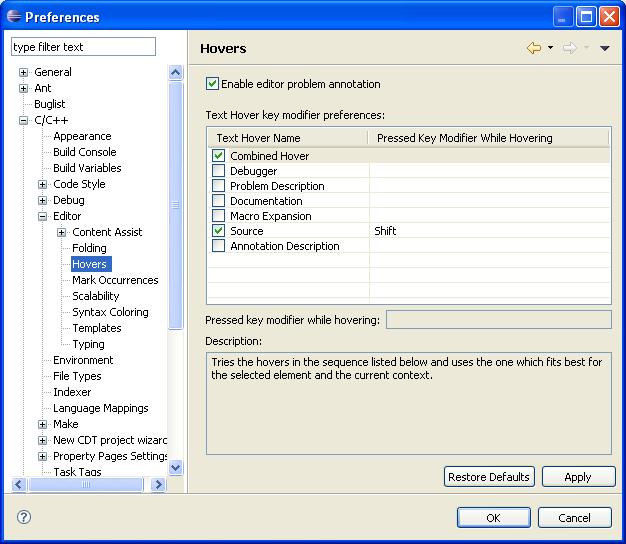
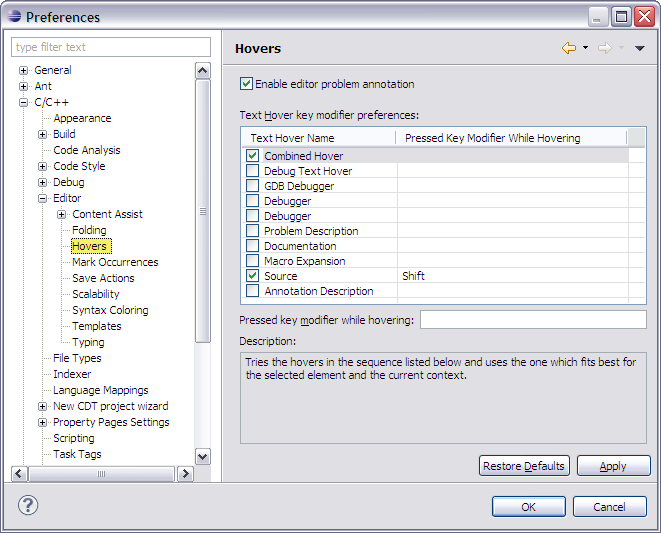
Revised Editor pref panels including: Folding, Hovers, Mark Occurrences, Save Actions, Scalability, Syntax Coloring, Templates, and Typing

diff --git a/doc/org.eclipse.cdt.doc.user/reference/cdt_u_c_editor_mark_occurrences.htm b/doc/org.eclipse.cdt.doc.user/reference/cdt_u_c_editor_mark_occurrences.htm
@@ -3,37 +3,46 @@
 <head>
 <meta name="copyright" content="Copyright (c) IBM Corporation and others 2000, 2008. This page is made available under license. For full details see the LEGAL in the documentation book that contains this page.">
 <meta http-equiv="Content-Type" content="text/html; charset=iso-8859-1">
-<title>Mark Occurrences</title>
+<title>Mark Occurrences preferences</title>
 <link rel="stylesheet" href="../book.css" charset="ISO-8859-1" type="text/css">
 <script language="JavaScript" src="PLUGINS_ROOT/org.eclipse.help/livehelp.js" type="text/javascript"> </script>
 </head>
+
 <body>
-<h1>Mark Occurrences</h1>
-<p>Indicate your preferences for the Mark Occurrences settings on the <a class="command-link" href='javascript:executeCommand("org.eclipse.ui.window.preferences(preferencePageId=org.eclipse.cdt.ui.preferences.MarkOccurrencesPreferencePage)")'> <img src="PLUGINS_ROOT/org.eclipse.help/command_link.png" alt="Opens the Mark Occurrences preference page"> <strong>C/C++ &gt; Editor &gt; Mark Occurrences</strong></a> preference page.</p>
-<table border="1" cellspacing="0" cellpadding="5">
+<h1>Mark Occurrences preferences</h1>
+<p>Use the <img src="../images/command_link.png" border="0" alt="" /> <a class="command-link" href='javascript:executeCommand("org.eclipse.ui.window.preferences(preferencePageId=org.eclipse.cdt.ui.preferences.MarkOccurrencesPreferencePage)")'>Mark Occurrences</a> preference panel to set annotations for the C/C++ Editor view.</p>
+<p><img src="../images/editor_mark_preferences.png"  alt="Mark Occurrences Preference Panel"></p>
+
+<table width="600px" border="1" cellspacing="0" cellpadding="5">
+	<caption><strong>Mark Occurrences Preference Options</strong></caption>
 	<thead>
 		<tr>
-			<th>
-			<p>Option</p>
-			</th>
-			<th>
-			<p>Description</p>
-			</th>
-			<th>
-			<p>Default</p>
-			</th>
+			<th><b>Option</b></th>
+			<th><b>Description</b></th>
+			<th><b>Default</b></th>
 		</tr>
 	</thead>
 	<tbody>
 		<tr>
 			<td valign="top">
-			<p>Mark occurrences of the selected element in the current file</p>
+			<b>Mark occurrences of the selected element in the current file</b>
 			</td>
 			<td valign="top">
-			<p>If enabled, then you'll see within a file, where a variable, function, method, type, macro or other element is referenced.</p>
+			If enabled, then you'll see within a file, where a variable, function, method, type, macro or other element is referenced.
 			</td>
 			<td valign="top">
-			<p>On</p>
+			On
+			</td>
+		</tr>
+		<tr>
+			<td valign="top">
+			<b>Keep marks when the selection changes</b>
+			</td>
+			<td valign="top">
+			If enabled, don't change the location of the mark occurrence when a new selection is made.
+			</td>
+			<td valign="top">
+			On
 			</td>
 		</tr>
 	</tbody>

diff --git a/doc/org.eclipse.cdt.doc.user/reference/cdt_u_c_editor_typing.htm b/doc/org.eclipse.cdt.doc.user/reference/cdt_u_c_editor_typing.htm
@@ -6,19 +6,27 @@
 	<meta http-equiv="Content-Type" content="text/html; charset=UTF-8">
 	<title>Typing preferences</title>
 	<link rel="stylesheet" type="text/css" href="../help.css">
+	<script language="JavaScript" src="PLUGINS_ROOT/org.eclipse.help/livehelp.js"></script>
 </head>
 <body>
 
 <h1>Typing preferences</h1>
 
-<p>Use the <strong>Typing</strong> preference panel to assist in formatting input as you type. Click <strong>Window &gt; Preferences &gt; C/C++ &gt; Editor &gt; Typing</strong> to make changes.</p>
-<img src="../images/editor_typing_preferences.png"  alt="Typing Preferences">
-	<table width="600px" cellpadding="5" cellspacing="0" border="1" >
+<p>Use the <img src="../images/command_link.png" border="0" alt="" /> <a class="command-link" href='javascript:executeCommand("org.eclipse.ui.window.preferences(preferencePageId=org.eclipse.cdt.internal.ui.preferences.SmartTypingPreferencePage)")'>Typing</a> preference panel to assist in formatting input as you type.</p>
+<p><img src="../images/editor_typing_preferences.png"  alt="Typing Preferences"></p>
+
+<table width="600px" cellpadding="5" cellspacing="0" border="1" >
 	<caption><strong>Typing Preference Options</strong></caption>
 	<colgroup>
 		<col width="30%" valign="top" >
 		<col width="70%" valign="top" >
 	</colgroup>
+	<thead>
+		<tr>
+			<th><b>Option</b></th>
+			<th><b>Description</b></th>
+		</tr>
+	</thead>
 	<tbody>
 		<tr>
 			<td><strong>"Strings"</strong></td>
@@ -37,7 +45,7 @@
 			<td>If enabled, automatically close curly braces.</td>
 		</tr>
 		<tr>
-			<td><strong>Tab key indents the current line</strong></td>
+			<td><strong>Tab key adjusts indentation of the current line</strong></td>
 			<td>If enabled, indent the current line when the tab key is pressed.</td>
 		</tr>
 		<tr>
@@ -53,7 +61,7 @@
 			<td>If enabled, special characters in pasted strings are escaped when pasted into an existing string literal.</td>
 		</tr>
 		<tr>
-			<td><strong>Automatically indent - New lines and braces</strong></td>
+			<td><strong>New lines and braces</strong></td>
 			<td>If enabled, a new line or brace will be indented according to the <a href="cdt_u_c_code_style_pref.htm">Code Style preferences</a>. 
 			If disabled, the default Text Editor indentation strategy is applied (copy indent from previous line)</td>
 		</tr>

diff --git a/doc/org.eclipse.cdt.doc.user/reference/cdt_u_c_editor_scalability.htm b/doc/org.eclipse.cdt.doc.user/reference/cdt_u_c_editor_scalability.htm
@@ -6,20 +6,27 @@
 	<meta http-equiv="Content-Type" content="text/html; charset=UTF-8">
 	<title>Editor Scalability preferences</title>
 	<link rel="stylesheet" type="text/css" href="../help.css">
+	<script language="JavaScript" src="PLUGINS_ROOT/org.eclipse.help/livehelp.js"></script>
 </head>
 <body>
 
 <h1>Scalability preferences</h1>
 
-<p>Use the <strong>Scalability</strong> preference panel to configure options for dealing with large source files. Click <strong>Window &gt; Preferences &gt; C/C++ &gt; Editor &gt; Scalability</strong> to make changes.</p>
-<img src="../images/editor_scalability_preferences.png"  alt="Scalability Preferences">
+<p>Use the <img src="../images/command_link.png" border="0" alt="" /> <a class="command-link" href='javascript:executeCommand("org.eclipse.ui.window.preferences(preferencePageId=org.eclipse.cdt.internal.ui.preferences.ScalabilityPreferencePage)")'>Scalability</a> preference panel to configure options for dealing with large source files.</p>
+<p><img src="../images/editor_scalability_preferences.png"  alt="Scalability Preferences"></p>
 
-	<table width="600px" cellpadding="5" cellspacing="0" border="1" >
+<table width="600px" cellpadding="5" cellspacing="0" border="1" >
 	<caption><strong>Scalability Preference Options</strong></caption>
 	<colgroup>
-		<col width="30%" valign="top" >
-		<col width="70%" valign="top" >
+		<col width="35%" valign="top" >
+		<col width="65%" valign="top" >
 	</colgroup>
+	<thead>
+		<tr>
+			<th><b>Option</b></th>
+			<th><b>Description</b></th>
+		</tr>
+	</thead>
 	<tbody>
 		<tr>
 			<td><strong>Alert me when scalability mode will be turned on</strong></td>
@@ -53,7 +60,7 @@
 			<td>If enabled, content assist proposals which require parsing the file will not be available.</td>
 		</tr>
 		<tr>
-			<td><strong>Disable content assist auto activation</strong></td>
+			<td><strong>Disable content assist auto-activation</strong></td>
 			<td>If enabled, content assist will not be activated automatically on trigger sequences, like '.', '::' or '->'.</td>
 		</tr>
 	</tbody>

diff --git a/doc/org.eclipse.cdt.doc.user/reference/cdt_u_c_editor_hov.htm b/doc/org.eclipse.cdt.doc.user/reference/cdt_u_c_editor_hov.htm
@@ -6,19 +6,26 @@
 	<meta http-equiv="Content-Type" content="text/html; charset=UTF-8">
 	<title>Hover preferences</title>
 	<link rel="stylesheet" type="text/css" href="../help.css">
+	<script language="JavaScript" src="PLUGINS_ROOT/org.eclipse.help/livehelp.js"></script>
 </head>
 <body>
 
 <h1>Hovers preferences</h1>
 
-<p>You can customize the appearance of the C/C++ editor hover behavior on the <strong>Hovers</strong> panel of the Preferences window.</p>
-<p><img src="../images/editor_hover_preferences.png" alt="Editor Hover Preferences Window"></p>
-<table width="600px" cellpadding="5" cellspacing="0" border="1" >
+<p>Use the <img src="../images/command_link.png" border="0" alt="" /> <a class="command-link" href='javascript:executeCommand("org.eclipse.ui.window.preferences(preferencePageId=org.eclipse.cdt.internal.ui.preferences.CEditorHoverPreferencePage)")'>Hovers</a> preference panel to customize the C/C++ editor hover behavior.</p>
+<p><img src="../images/editor_hover_preferences.png" alt="Editor Hover Preferences Panel"></p>
+<table width="600px" cellpadding="4" cellspacing="0" border="1" fgcolor="DDD" >
 	<caption><strong>Hovers Preference Options</strong></caption>
 	<colgroup>
 		<col width="30%" valign="top" >
 		<col width="70%" valign="top" >
 	</colgroup>
+	<thead>
+		<tr >
+			<th><b>Option</b></th>
+			<th><b>Description</b></th>
+		</tr>
+	</thead>
 	<tbody>
 		<tr>
 			<td><strong>Enable editor problem annotation</strong></td>
@@ -27,6 +34,10 @@
 		<tr>
 			<td><strong>Text Hover key modifier preferences</strong></td>
 			<td>You can select hot-keys to enable alternate hover behavior. For example, a mouse over while pressing the &lt;Ctrl&gt; key will link to the element's source declaration.</td>
+		</tr>
+		<tr>
+			<td><strong>Pressed key modifier while hovering</strong></td>
+			<td>Enter a key modifier for the selected hover name.</td>
 		</tr>
 	</tbody>
 </table>

diff --git a/doc/org.eclipse.cdt.doc.user/reference/cdt_u_c_editor_color.htm b/doc/org.eclipse.cdt.doc.user/reference/cdt_u_c_editor_color.htm
@@ -6,22 +6,29 @@
 	<meta http-equiv="Content-Type" content="text/html; charset=UTF-8">
 	<title>Syntax Coloring preferences</title>
 	<link rel="stylesheet" type="text/css" href="../help.css">
+	<script language="JavaScript" src="PLUGINS_ROOT/org.eclipse.help/livehelp.js"></script>
 </head>
 
 <body>
 
 <h1>Syntax Coloring preferences</h1>
 
-<p>The <strong>Syntax Coloring</strong> preference panel specifies how C/C++ source code is rendered. Each element category (Code, Comments, and Preprocessor) contains a list of language elements that may be rendered with its own color and style.</p>
+<p>Use the <img src="../images/command_link.png" border="0" alt="" /> <a class="command-link" href='javascript:executeCommand("org.eclipse.ui.window.preferences(preferencePageId=org.eclipse.cdt.internal.ui.preferences.CEditorColoringPreferencePage)")'>Syntax Coloring</a> preference panel to specify how C/C++ source code is rendered. Each element category (Code, Comments, and Preprocessor) contains a list of language elements that may be rendered with its own color and style.</p>
 	<p>Note that general text editor settings such as the background color can be configured on the general <strong>Text Editors</strong> preference pages. Fonts may be configured on the general <strong>Colors and Fonts</strong> preference page</p>
 	<p><img src="../images/editor_color_preferences.png" alt="Syntax Coloring Preferences Page"></p>
 
-<table width="600px" cellpadding="5" cellspacing="0" border="1" >
+<table width="600px" cellpadding="5" cellspacing="0" border="1" fgcolor="DDD" >
 	<caption><strong>Syntax Coloring Preference Options</strong></caption>
 	<colgroup>
 		<col width="30%" valign="top" >
 		<col width="70%" valign="top" >
 	</colgroup>
+	<thead>
+		<tr>
+			<th><b>Option</b></th>
+			<th><b>Description</b></th>
+		</tr>
+	</thead>
 	<tbody>
 		<tr>
 			<td><strong>Enable semantic highlighting</strong></td>

diff --git a/doc/org.eclipse.cdt.doc.user/reference/cdt_u_c_editor_folding.htm b/doc/org.eclipse.cdt.doc.user/reference/cdt_u_c_editor_folding.htm
@@ -6,12 +6,13 @@
 	<meta http-equiv="Content-Type" content="text/html; charset=UTF-8">
 	<title>Folding preferences</title>
 	<link rel="stylesheet" type="text/css" href="../help.css">
+    <script language="JavaScript" src="PLUGINS_ROOT/org.eclipse.help/livehelp.js"></script>
 </head>
 <body>
 
 <h1>Folding preferences</h1>
 
-<p>You can customize the C/C++ editor folding behavior in the <strong>Folding</strong> panel of the Preferences window.</p>
+<p>Use the <img src="../images/command_link.png" border="0" alt="" /> <a class="command-link" href='javascript:executeCommand("org.eclipse.ui.window.preferences(preferencePageId=org.eclipse.cdt.internal.ui.preferences.FoldingPreferencePage)")'>Folding</a> preference panel to customize the C/C++ editor folding behavior.</p>
 <p><img src="../images/editor_folding_preferences.png" alt="Editor Folding Preferences Window"></p>
 <table width="600px" cellpadding="5" cellspacing="0" border="1" >
 	<caption><strong>Folding Preference Options</strong></caption>
@@ -21,7 +22,7 @@
 		<col width="10%" valign="top" align="center" >
 	</colgroup>
 	<tbody>
-		<tr>
+		<tr align="center" >
 			<td><strong>Option</strong></td>
 			<td><strong>Description</strong></td>
 			<td><strong>Default</strong></td>
@@ -39,6 +40,11 @@
 		<tr>
 			<td><strong>Enable folding of preprocessor branches (#if/#endif)</strong></td>
 			<td>If enabled, fold preprocessor branches.</td>
+			<td>&nbsp;</td>
+		</tr>
+		<tr>
+			<td><strong>Enable folding of control flow statements (if/else, do/while, for, switch)</strong></td>
+			<td>If enabled, fold control flow statements.</td>
 			<td>&nbsp;</td>
 		</tr>
 		<tr>

diff --git a/doc/org.eclipse.cdt.doc.user/reference/cdt_u_c_editor_save_actions.htm b/doc/org.eclipse.cdt.doc.user/reference/cdt_u_c_editor_save_actions.htm
@@ -6,20 +6,27 @@
 	<meta http-equiv="Content-Type" content="text/html; charset=UTF-8">
 	<title>Editor preferences</title>
 	<link rel="stylesheet" type="text/css" href="../help.css">
+	<script language="JavaScript" src="PLUGINS_ROOT/org.eclipse.help/livehelp.js"></script>
 </head>
 <body>
 
 <h1>Save actions</h1>
 
-<p>Use the <strong>Save Actions</strong> preference panel to configure actions performed by C/C++ editor while saving
-a file. Click <strong>Window &gt; Preferences &gt; C/C++ &gt; Editor &gt; Save Actions</strong> to make changes.</p>
+<p>Use the <img src="../images/command_link.png" border="0" alt="" /> <a class="command-link" href='javascript:executeCommand("org.eclipse.ui.window.preferences(preferencePageId=org.eclipse.cdt.internal.ui.preferences.SaveActionsPreferencePage)")'>Save Actions</a> preference panel to configure actions performed by the C/C++ editor while saving a file.</p>
+<p><img src="../images/editor_save_actions_preferences.png"  alt="Save Actions Preferences"></p>
 
 <table width="600px" cellpadding="5" cellspacing="0" border="1" >
-	<caption><strong>Editor Preference Options</strong></caption>
+	<caption><strong>Save Actions Preference Options</strong></caption>
 	<colgroup>
-		<col width="30%" valign="top" >
-		<col width="70%" valign="top" >
+		<col width="35%" valign="top" >
+		<col width="65%" valign="top" >
 	</colgroup>
+	<thead>
+		<tr>
+			<th><b>Option</b></th>
+			<th><b>Description</b></th>
+		</tr>
+	</thead>
 	<tbody>
 		<tr>
 			<td><strong>Remove trailing whitespace</strong></td>

diff --git a/doc/org.eclipse.cdt.doc.user/reference/cdt_u_code_temp.htm b/doc/org.eclipse.cdt.doc.user/reference/cdt_u_code_temp.htm
@@ -6,20 +6,27 @@
 	<meta http-equiv="Content-Type" content="text/html; charset=UTF-8">
 	<title>Templates preferences</title>
 	<link rel="stylesheet" type="text/css" href="../help.css">
+	<script language="JavaScript" src="PLUGINS_ROOT/org.eclipse.help/livehelp.js"></script>
 </head>
 <body>
 
 <h1>Templates preferences</h1>
 
-<p>Use the <strong>Templates</strong> preference panel to manipulate any of the common templates predefined within CDT or create your own. To modify, delete, export, 
+<p>Use the <img src="../images/command_link.png" border="0" alt="" /> <a class="command-link" href='javascript:executeCommand("org.eclipse.ui.window.preferences(preferencePageId=org.eclipse.cdt.internal.ui.preferences.CTemplatePreferencePage)")'>Templates</a> preference panel to manipulate any of the common templates predefined within CDT or create your own. To modify, delete, export, 
 import, or create your own templates click <strong>Window &gt; Preferences &gt; C/C++ &gt; Templates</strong>.</p>
-<img src="../images/code_templates.png"  alt="Templates Preferences">
+<p><img src="../images/code_templates.png"  alt="Templates Preferences"></p>
 	<table width="600px" cellpadding="5" cellspacing="0" border="1" >
 	<caption><strong>Templates Preference Options</strong></caption>
 	<colgroup>
 		<col width="30%" valign="top" >
 		<col width="70%" valign="top" >
 	</colgroup>
+	<thead>
+		<tr>
+			<th><b>Option</b></th>
+			<th><b>Description</b></th>
+		</tr>
+	</thead>
 	<tbody>
 		<tr>
 			<td><strong>New...</strong></td>

diff --git a/doc/org.eclipse.cdt.doc.user/reference/cdt_u_c_code_style_pref.htm b/doc/org.eclipse.cdt.doc.user/reference/cdt_u_c_code_style_pref.htm
@@ -15,14 +15,15 @@
 <p>Use the <img src="../images/command_link.png" border="0" alt="" /> <a class="command-link" href='javascript:executeCommand("org.eclipse.ui.window.preferences(preferencePageId=org.eclipse.cdt.ui.preferences.CodeFormatterPreferencePage)")'>Code Style</a> preference panel to configure your global code style profiles for smart typing features, like auto-indentation and formatting. Click <strong>Window &gt; Preferences &gt; C/C++ &gt; Code Style</strong> to make changes.</p>
 <p><img src="../images/code_style_preferences.png"  alt="Code Style Preferences"></p>
 <table border="1" cellspacing="0" cellpadding="5" width="600" summary="All options">
+	<caption><strong>Code Style Preference Options</strong></caption>
+	<colgroup>
+		<col width="30%" valign="top" >
+		<col width="70%" valign="top" >
+	</colgroup>
 	<thead>
 		<tr>
-			<th>
-			<b>Option</b>
-			</th>
-			<th>
-			<b>Description</b>
-			</th>
+			<th><b>Option</b></th>
+			<th><b>Description</b></th>
 		</tr>
 	</thead>
 	<tbody>
